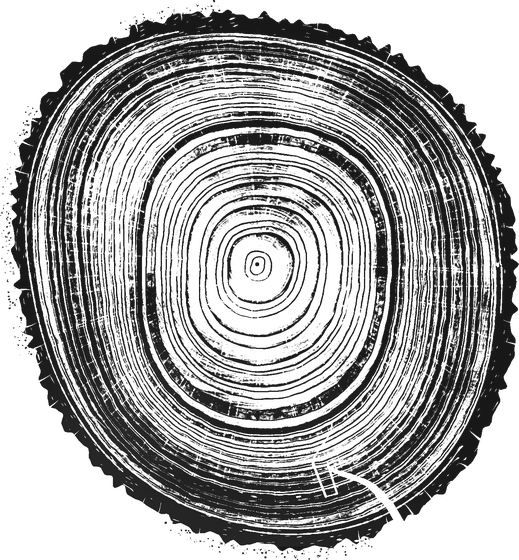
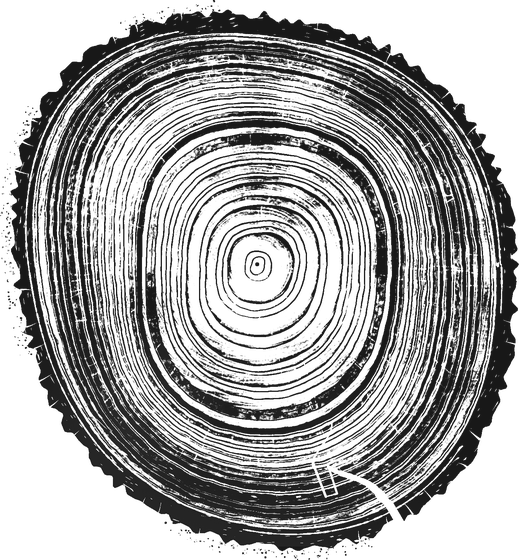
Hold the magnifier while zoomed; rays that wander and break, short in most woods
Claude-Session: https://claude.ai/code/session_01WhGxUDQ2nhT1B8pKnZrdq5

diff --git a/src/rings/press.ts b/src/rings/press.ts
@@ -1794,12 +1794,17 @@ const ANATOMY: Partial<Record<Kind, Anatomy>> = {
  */
 const RAYS: Partial<Record<Kind, number>> = { oak: 0.95, ash: 0.7, cherry: 0.75, maple: 0.8, birch: 0.45, olive: 0.55, pine: 0.3, redwood: 0.25, bristlecone: 0.25 };
 /**
+ * How long a wood's rays run before breaking off (in the slice's own px): oak's broad rays long, the others'
+ * short flecks a few years tall, staggered; and how much of each ray's way is broken.
+ */
+const RAY_RUN: Partial<Record<Kind, [number, number]>> = { oak: [26, 0.25], ash: [12, 0.4], cherry: [5, 0.55], maple: [5, 0.5], birch: [4, 0.6], olive: [5, 0.55], pine: [7, 0.6], redwood: [7, 0.6], bristlecone: [7, 0.6] };
+/**
  * The rays at a point (tree angle `a`, `rho` px out at the slice's own size), 0 to 1. Real rays keep about the
  * same distance apart all the way out: a few begin at the heart, and as the wood widens new ones begin between
  * them, each at its own radius; each wanders a little and breaks now and then. Laid out by levels, each twice
  * the last's, a ray begun at one level running on through all the rest, so none ever jumps.
  */
-function rayAt(a: number, rho: number): number {
+function rayAt(a: number, rho: number, run: [number, number] = [20, 0.3]): number {
   const R0 = 10, GAP = 3.6;
   if (rho < R0 * 0.6) return 0;
   const lv = Math.max(0, Math.floor(Math.log2(rho / R0))), N0 = Math.max(6, Math.round((TAU * R0) / GAP)), N = N0 * 2 ** lv;
@@ -1812,11 +1817,14 @@ function rayAt(a: number, rho: number): number {
     const id = bk * 7.31 + bl * 31.7, nb = N0 * 2 ** bl, born = R0 * 2 ** bl * (bl ? 0.7 + 0.6 * h1(id * 1.9) : 0.6);
     if (rho < born) continue;
     // (Where it lies: its birth place, a little off even, wandering slowly outward.)
-    const at = ((bk + 0.5 + (h1(id) - 0.5) * 0.5) / nb + (Math.sin(rho / (40 + 30 * h1(id * 2.3)) + id) * 0.25) / nb) * N;
+    // (Never ruled: it bends a little as the years about it swell and pinch, slowly and in small jogs.)
+    const wander = Math.sin(rho / (40 + 30 * h1(id * 2.3)) + id) * 0.45 + (vnoise(id * 0.71, rho / 9) - 0.5) * 0.7;
+    const at = ((bk + 0.5 + (h1(id) - 0.5) * 0.5) / nb + wander / N) * N;
     let dd = Math.abs(sAt - at); dd = Math.min(dd, N - dd);
     const dist = (dd * TAU * rho) / N + (vnoise(rho * 0.9 + id, id * 0.13) - 0.5) * 0.35, half = 0.07 + 0.16 * h1(id * 3.7) ** 2;
     if (dist > half + 0.6) continue;
-    if (vnoise(id * 0.37, rho / 14) < 0.3) continue;
+    // (A run, then broken off: short flecks in most woods, long runs in oak's.)
+    if (vnoise(id * 0.37, rho / run[0]) < run[1]) continue;
     best = Math.max(best, Math.min(1, smooth(1 - (dist - half) / 0.6)) * Math.min(1, (rho - born) / 3));
   }
   return best;
@@ -1955,7 +1963,7 @@ function printYears(v: View, oak: Years | null): void {
       }
       // The rays: the wood's fine radial lines, open to the paper, crossing every year, so the latewood prints
       // as a run of small bricks.
-      if (RAY && !heart) ink *= 1 - RAY * rayAt(a, r / U);
+      if (RAY && !heart) ink *= 1 - RAY * rayAt(a, r / U, RAY_RUN[kind]);
       const k = (y * w + x) * 4;
       d[k] = INK[0]; d[k + 1] = INK[1]; d[k + 2] = INK[2]; d[k + 3] = Math.round(255 * Math.min(1, ink));
     }
@@ -3257,7 +3265,11 @@ function frame(): void {
   const restWanted = PRINT && !busy && t - idleSince > 1.4 && !!v.warp && v.warp.beta > 0;
   // (Left a while on the slice, the grove is drawn ready, out of sight, so drawing back to it never stalls.)
   if (GROWN && far === 0 && !intro && !busy && t - idleSince > 2.5 && t - groveWarmAt > 5 && canPull()) { groveWarmAt = t; groveBase(); }
-  relax = restWanted ? Math.min(1, relax + dt / STEADY_T) : Math.max(0, relax - dt / 0.22);
+  // (Only drawing brings the magnifier back: a pinch, or looking closer, leaves the slice as it is, never
+  // changing under the fingers or a moment after they lift.)
+  const drawingNow = !!tree.stroke || painter !== null || settle.ring >= 0 || !!ease;
+  const looking = fingers.size > 0 || closer() || !!lookBack;
+  relax = drawingNow ? Math.max(0, relax - dt / 0.22) : restWanted && !looking ? Math.min(1, relax + dt / STEADY_T) : relax;
   const moving = (!!ease && !GROWN) || !!lookBack || fingers.size >= 2, drift = !!ease && GROWN;
   if (PRINT && growing && (growing.ring !== tree.rings.length - 1 || t - growing.at > SEASON || closer())) growing = null;
   // (A finger the phone never said was lifted (a pinch's, now and then): let go after a still second and a half.)

diff --git a/RINGS-HISTORY.md b/RINGS-HISTORY.md
@@ -172,3 +172,5 @@ Still to come (`trees.ts`): a redwood with fires, a bristlecone with drought, a 
 **Cracks from the heart, and stepped** (since October 17). An old slice now splits from the heart too: from about its ninetieth year, two to four cracks open out from the pith, parting it into wedges. And a crack, from the bark or the heart, now and then runs a short way along a year's edge before going on, as wood parts along its rings as readily as across them: a step. Each crack is stroked a piece at a time, as wide as it is there, so it turns without a seam.
 
 **Sharp up close** (since October 17). Looked into, the print was soft: pressed at two device pixels to a CSS px and shown on a phone's three, so stretched by half; the drawn woods' fibre, from an old scan, magnified into diagonal smears; the rays and the edge's specks sized with the wood, so thick. Now the print is pressed at the screen's own resolution (`QUALITY`, the strips smaller so a frame's share stays small); the scan's fibre is used lightly, under a finer grain of the wood's own that only shows as it's looked into, so closer finds more, never a blur; the rays are finer, their edges ragged; the specks grow less, and aren't round.
+
+**Steady when looked into; rays as they run** (since October 17). Pinching counted as drawing, so the slice's magnifier came back under the fingers and, a moment after they lifted, eased away again: the heart's years swelling outward, the slice seeming to zoom of itself. Now only drawing brings the magnifier back; while looking closer it holds as it is. And the rays were ruled straight from heart to bark; now each bends a little and jogs as the years about it swell and pinch, and breaks off: oak's in long runs, the other woods' in short flecks a few years tall, staggered (`RAY_RUN`).
